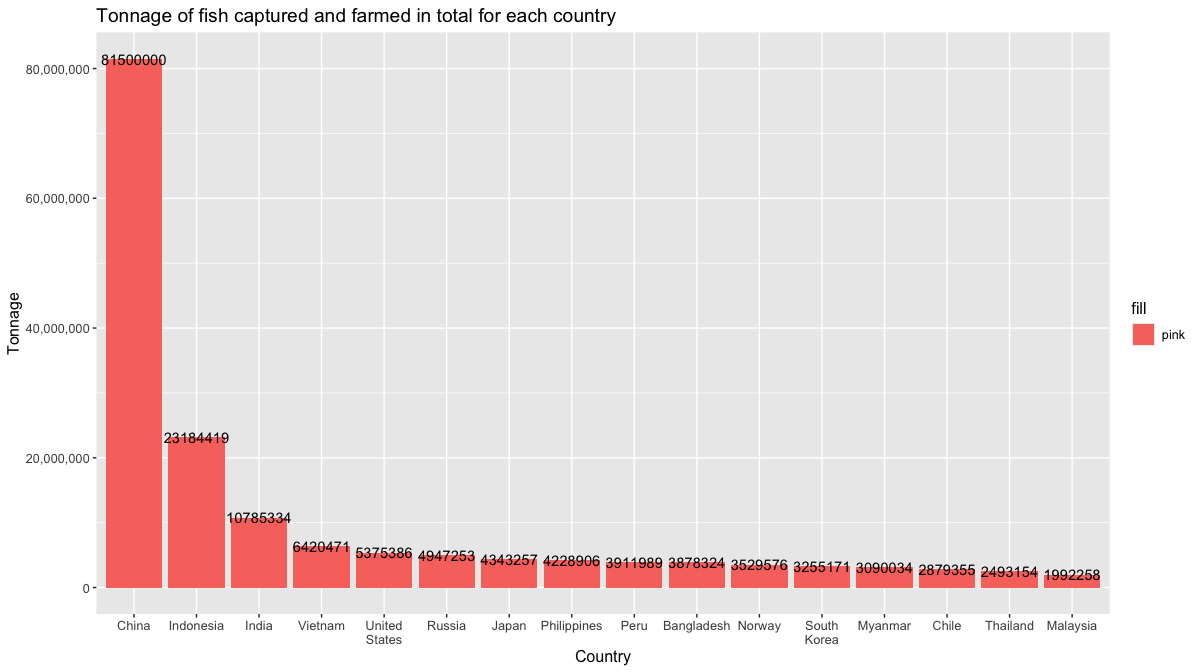
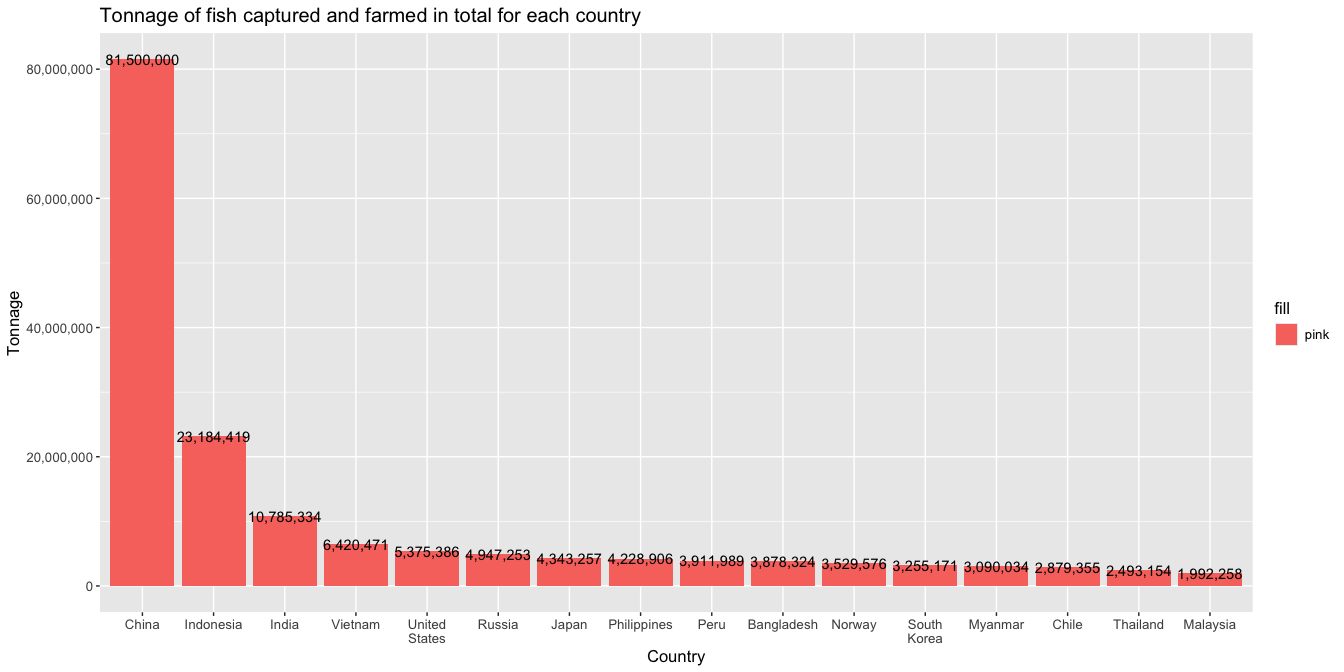
revise

diff --git a/lab-06.md b/lab-06.md
@@ -145,13 +145,29 @@ fisheries_total %>%
   arrange(desc(total)) %>% 
   ggplot(aes(x = reorder(country, -total), y = total, fill = "pink")) + 
   geom_col(position = "dodge") + 
-  geom_text(aes(label = total)) +
+  geom_text(aes(label = comma(total))) +
   scale_y_continuous(labels = comma) +
   scale_x_discrete(labels = ~str_wrap(.x, width = 10)) + 
   labs(title = "Tonnage of fish captured and farmed in total for each country",
        x = "Country",
        y = "Tonnage") +
-  theme(text = element_text(size = 12))
+  theme(text = element_text(size = 12.5))
 ```
 
 ![](lab-06_files/figure-gfm/unnamed-chunk-6-1.png)<!-- -->
+
+This graph here only represents the total tonnage (capture +
+aquaculture).  
+What I changed:  
+1. I used bar plot instead of density/line plot. This is because a trend
+between countries doesn’t make a lot of sense.  
+2. I labeled the exact values on each bar. Because China has a very high
+value, other countries have shorter bars in the graph. It’s not easy to
+make sense of the value of those countries.  
+3. Added labels so that it’s clear what this graph is about.  
+4. Width of the graph so that it’s more readable.
+
+One thing that could be changed: represents capture, aquaculture, and
+total in the same graph.
+
+Let’s try doing that~
